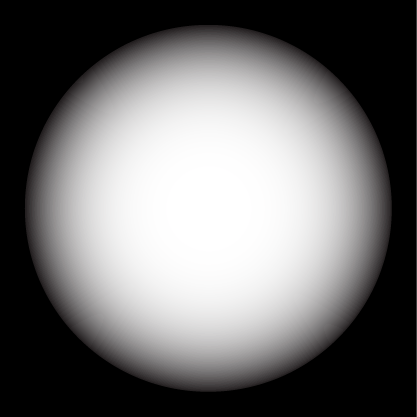
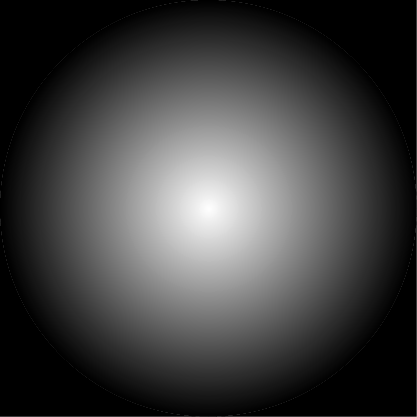
add blurred edges

diff --git a/MinimalGazeDataStream/MinimalGazeDataStream.cpp b/MinimalGazeDataStream/MinimalGazeDataStream.cpp
@@ -176,15 +176,15 @@ void TX_CALLCONVENTION OnEngineConnectionStateChanged(TX_CONNECTIONSTATE connect
 	}
 }
 
-cv::Mat overlayImage(cv::Mat background, cv::Mat foreground, cv::Point location)
+
+void overlayImage(const cv::Mat &background, const cv::Mat &foreground,
+    cv::Mat &output, cv::Point2i location)
 {
-  
-	 
-	cv::Mat output;// = background.clone();
-	cv::cvtColor(background,output,CV_BGR2BGRA, 4);
+  background.copyTo(output);
+
 
   // start at the row indicated by location, or at row 0 if location.y is negative.
-  for(int y = location.y; y < background.rows; y++)
+  for(int y = std::max(location.y , 0); y < background.rows; ++y)
   {
     int fY = y - location.y; // because of the translation
 
@@ -192,10 +192,10 @@ cv::Mat overlayImage(cv::Mat background, cv::Mat foreground, cv::Point location)
     if(fY >= foreground.rows)
       break;
 
-    // start at the column indicated by location, 
+    // start at the column indicated by location,
 
     // or at column 0 if location.x is negative.
-    for(int x = location.x; x < background.cols; x++)
+    for(int x = std::max(location.x, 0); x < background.cols; ++x)
     {
       int fX = x - location.x; // because of the translation.
 
@@ -204,33 +204,26 @@ cv::Mat overlayImage(cv::Mat background, cv::Mat foreground, cv::Point location)
         break;
 
       // determine the opacity of the foregrond pixel, using its fourth (alpha) channel.
-      //double opacity =
-      //  ((double)foreground.data[fY * foreground.step + fX * foreground.channels() + 3])/ 255.0;
+      double opacity =
+        ((double)foreground.data[fY * foreground.step + fX * foreground.channels() + 3])
+
+        / 255.;
 
 
-      // and now combine the background and foreground pixel, using the opacity, 
+      // and now combine the background and foreground pixel, using the opacity,
 
-	  //output.data[y*output.step + output.channels()*x + 4] = opacity;
-	  //continue;
       // but only if opacity > 0.
-	  //for(int c = 0; c < output.channels(); c++) {
-	  //output.at<cv::Vec4b>(cvPoint(x,y))[0] = 0;
-	  //output.at<cv::Vec4b>(cvPoint(x,y))[1] = 0;
-	  //output.at<cv::Vec4b>(cvPoint(x,y))[2] = 255;
-	  output.at<cv::Vec4b>(cvPoint(x,y))[3] = 0.5;
-	  //}
-      /*for(int c = 2; c < output.channels(); c++)
+      for(int c = 0; opacity > 0 && c < output.channels(); ++c)
       {
         unsigned char foregroundPx =
           foreground.data[fY * foreground.step + fX * foreground.channels() + c];
         unsigned char backgroundPx =
           background.data[y * background.step + x * background.channels() + c];
         output.data[y*output.step + output.channels()*x + c] =
-          backgroundPx * (1-opacity) + foregroundPx * opacity;
-      }*/
+          backgroundPx * (1.-opacity) + foregroundPx * opacity;
+      }
     }
   }
-  return output;
 }
 
 int shouldUpdateWindow = 0;
@@ -285,7 +278,9 @@ void OnGazeDataEvent(TX_HANDLE hGazeDataBehavior)
 			image0.copyTo(img0, imageMask);
 			image0.copyTo(imgP, imageProjector);
 
-			cv::imshow("window", img0);//overlayImage(img0, blurCircle, cvPoint(weightedAvgPoint.x-CIRCLE_SIZE/2, weightedAvgPoint.y-CIRCLE_SIZE/2) ) );
+      overlayImage(img0, blurCircle, img0, cv::Point(weightedAvgPoint.x-CIRCLE_SIZE, weightedAvgPoint.y-CIRCLE_SIZE));
+
+			cv::imshow("window", img0);
 			cv::imshow("projector", imgP);
 		}
 
@@ -380,7 +375,7 @@ int main(int argc, char* argv[])
 
 	changeImage();
 
-	blurCircle = cv::imread("..\\images\\blurCircle.png", CV_LOAD_IMAGE_ANYDEPTH);
+	blurCircle = cv::imread("..\\images\\blurCircle.png", -1);
 	
 	if( !blurCircle.data )
 	{
